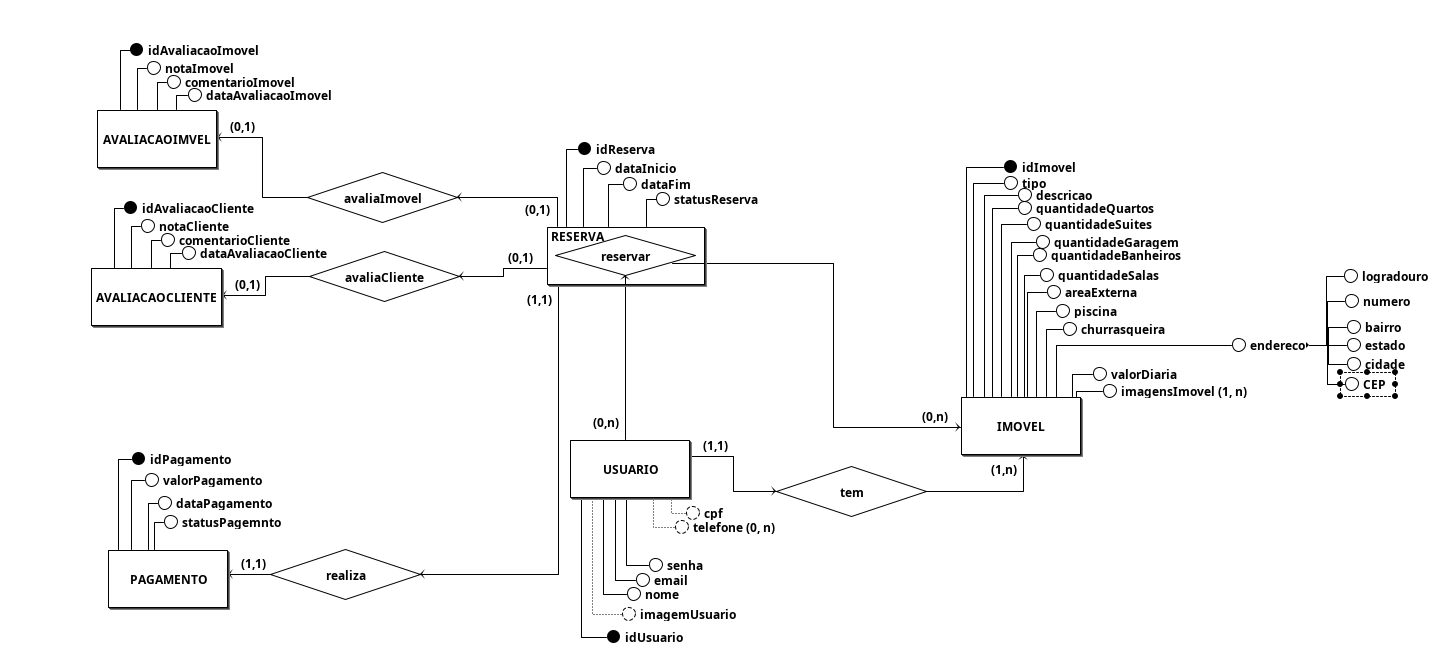
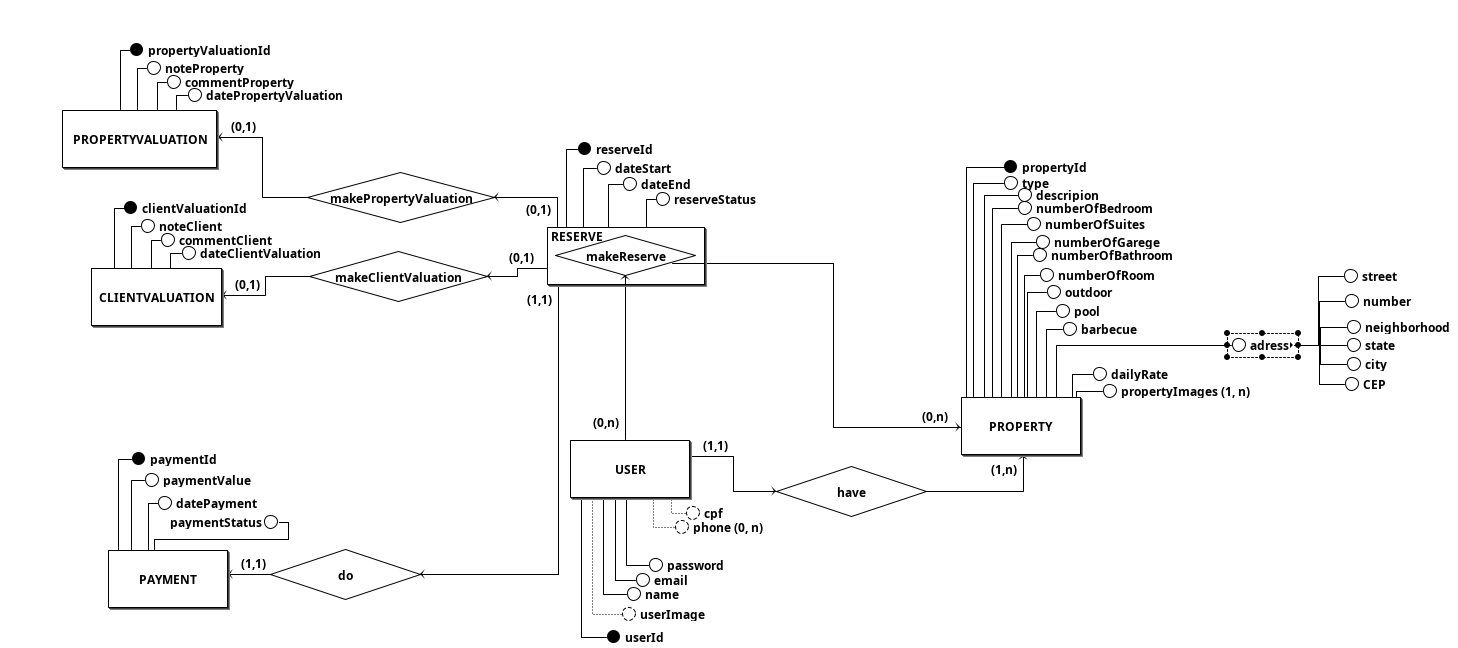
fix: Altera o nome das entidades, atributos e relações.

diff --git a/docs/banco-de-dados/index.md b/docs/banco-de-dados/index.md
@@ -1,44 +1,48 @@
 ### Modelo Entidade-Relacionamento (ME-R)
 
-#### Identificações das Entidade
+#### Identificações das Entidades
 
-* **USUARIO**
-* **IMOVEL**
-* **RESERVA**
-* **AVALIACAOIMOVEL**
-* **AVALIACAOCLIENTE**
-* **PAGAMENTO**
+* **USER**
+* **PROPERTY**
+* **RESERVE**
+* **PROPERTYVALUATION**
+* **CLIENTVALUATION**
+* **PAYMENT**
 
 #### Descrições das Entidades (Atributos)
 
-* **USUARIO** (<u>idUsuario</u>, nome, email, senha, {telefone}, cpf, imagemUsuario)
-* **IMOVEL** (<u>idImovel</U>, tipo, enderecao(logradouro, numero, bairro, estado, cidade, CEP), descricao, quantidadeQuartos, quantidadeSuites,garagemm, quantidadeBanheiros,quantidadeSalas,areaExterna,piscina, churrasqueira, cidade, reserva, valor, {imagensImovel})
-* **RESERVA** (<u>idReserva</u>, dataInicio, dataFim, status)
-* **AVALIACAOIMOVEL** (<u>idAvaliacaoImovel</u>, notaImovel, comentarioImovel, dataAvaliacaoImovel)
-* **AVALIACAOCLIENTE** (<u>idAvaliacaoCliente</u>, notaCliente, comentarioCliente, dataAvaliacaoCliente)
-* **PAGAMENTO**(<u>idPagamento</u>, valorPagamento, dataPagamento, statusPagamento)
+* **USER** (<u>userId</u>, name, email, password, {phone}, cpf, userImage)
+* **PROPERTY** (<u>propertyId</u>, type, description, numberOfBedroom, numberOfSuites, numberOfGarage, numberOfBathroom, numberOfRoom, outdoor, pool, barbecue, dailyRate, {propertyImages}, endereco(street, number, neighborhood, city, state, CEP))
+* **RESERVE** (<u>reserveId</u>, dateStart, dateEnd, reserveStatus)
+* **PROPERTYVALUATION** (<u>propertyValuationId</u>, noteProperty, commentProperty, datePropertyValuation)
+* **CLIENTVALUATION** (<u>clientValuationId</u>, noteClient, commentClient, dateClientValuation)
+* **PAYMENT** (<u>paymentId</u>, paymentValue, datePayment, paymentStatus)
 
-#### Descrição dos relacionamentos Relacionamentos
+#### Descrição dos Relacionamentos
 
-* **USUARIO tem IMOVEL**
-    * **Descrição:** Esta relação representa a posse de um imóvel.
-    *  **Regra de Negócio:** Um **USUARIO** (no papel de Proprietário) pode ser dono de vários **IMOVEIS**, mas um **IMOVEL** so pode pertencer a um *pertence a um e somente um **USUARIO**.
+* **USER have PROPERTY**
+    * **Descrição:** Esta relação representa a posse de um imóvel por um usuário.
+    * **Regra de Negócio:** Um **USER** pode possuir um ou vários **PROPERTIES** (`1,n`), mas um **PROPERTY** pertence a um e somente um **USER** (`1,1`).
+    * **Cardinalidade:** (1:N)
+
+* **USER makeReserve PROPERTY**
+    * **Descrição:** Esta relação de negócio dá origem à entidade associativa `RESERVE`.
+    * **Regra de Negócio:** Um **USER** pode fazer várias (`0,n`) reservas, e um **PROPERTY** pode ser reservado várias vezes (`0,n`).
     * **Cardinalidade:** (N:N)
-* **USUARIO reserva IMOVEL**
-    * **Descrição:** Esta é a relação de negócio principal que dá origem à entidade `RESERVA`.
-    * **Regra de Negócio:** Um **USUARIO** (no papel de Cliente) pode reservar vários **IMOVEIS** ao longo do tempo, e um mesmo **IMOVEL** pode ser reservado por vários **USUARIO**  (em datas diferentes).
-    * **Cardinalidade:** (N:N)
-* **RESERVA gera AVALIACAOIMOVEL**
-    * **Descrição:** Define que uma avaliação do imóvel só pode existir no contexto de uma reserva.
-    * **Regra de Negócio:** Uma **RESERVA** pode ter no máximo uma **AVALIACAOIMOVEL** (o hóspede pode ou não avaliar). Uma **AVALIACAOIMOVEL** pertence a uma e somente uma **RESERVA**.
-    * **Cardinalidade:** (1:1)
-* **RESERVA avaliaCliente AVALIACAOCLEINTE**
-    * **Descrição:** Define que uma avaliação do cliente (hóspede) só pode existir no contexto de uma reserva.
-    * **Regra de Negócio:** Uma ********RESERVA** pode ter no máximo uma **AVALIACAOCLIENTE** (o proprietário pode ou não avaliar o hóspede). Uma **AVALIACAOCLIENTE** pertence a uma e somente uma **RESERVA**.
-    * **Cardinalidade:** (1:1)
-* **RESERVA realiaza PAGAMENTO**
-    * **Descrição:** Associa um ou mais pagamentos a uma reserva específica.
-    * **Regra de Negócio:** Uma **RESERVA** pode exigir um ou vários **PAGAMENTOS** (por exemplo, um sinal para confirmar e o restante depois). Um **PAGAMENTO** específico refere-se a uma e somente uma **RESERVA**.
+
+* **RESERVE makePropertyValuation PROPERTYVALUATION**
+    * **Descrição:** Define que uma avaliação do imóvel (`PROPERTYVALUATION`) só pode existir no contexto de uma reserva (`RESERVE`).
+    * **Regra de Negócio:** Uma **RESERVE** pode ter no máximo uma **PROPERTYVALUATION** (`0,1`). Uma **PROPERTYVALUATION** pertence a uma e somente uma **RESERVE** (`1,1`).
+    * **Cardinalidade:** (1:0,1)
+
+* **RESERVE makeClientValuation CLIENTVALUATION**
+    * **Descrição:** Define que uma avaliação do cliente (`CLIENTVALUATION`) só pode existir no contexto de uma reserva (`RESERVE`).
+    * **Regra de Negócio:** Uma **RESERVE** pode ter no máximo uma **CLIENTVALUATION** (`0,1`). Uma **CLIENTVALUATION** pertence a uma e somente uma **RESERVE** (`1,1`).
+    * **Cardinalidade:** (1:0,1)
+
+* **USER do PAYMENT**
+    * **Descrição:** Associa um pagamento a um usuário.
+    * **Regra de Negócio (Conforme o Diagrama):** Um **USER** está associado a um e somente um **PAYMENT** (`1,1`). Um **PAYMENT** específico refere-se a um e somente um **USER** (`1,1`).
     * **Cardinalidade:** (1:1)
 
 ### Diagrama de Entidade-Relacionamento(DE-R)
@@ -56,3 +60,4 @@
 |    Data    |   Tipo   |                     Descrição                    |
 | :--------- | :------- | :----------------------------------------------- |
 | 06/10/2025 | **feat** | Adiciona a descrição das entidades, diagrama de entidade-relacionamento, diagrama lógico de dados |
+| 11/10/2025 | **fix** | Altera o nome das entidades, atributos e relações |
